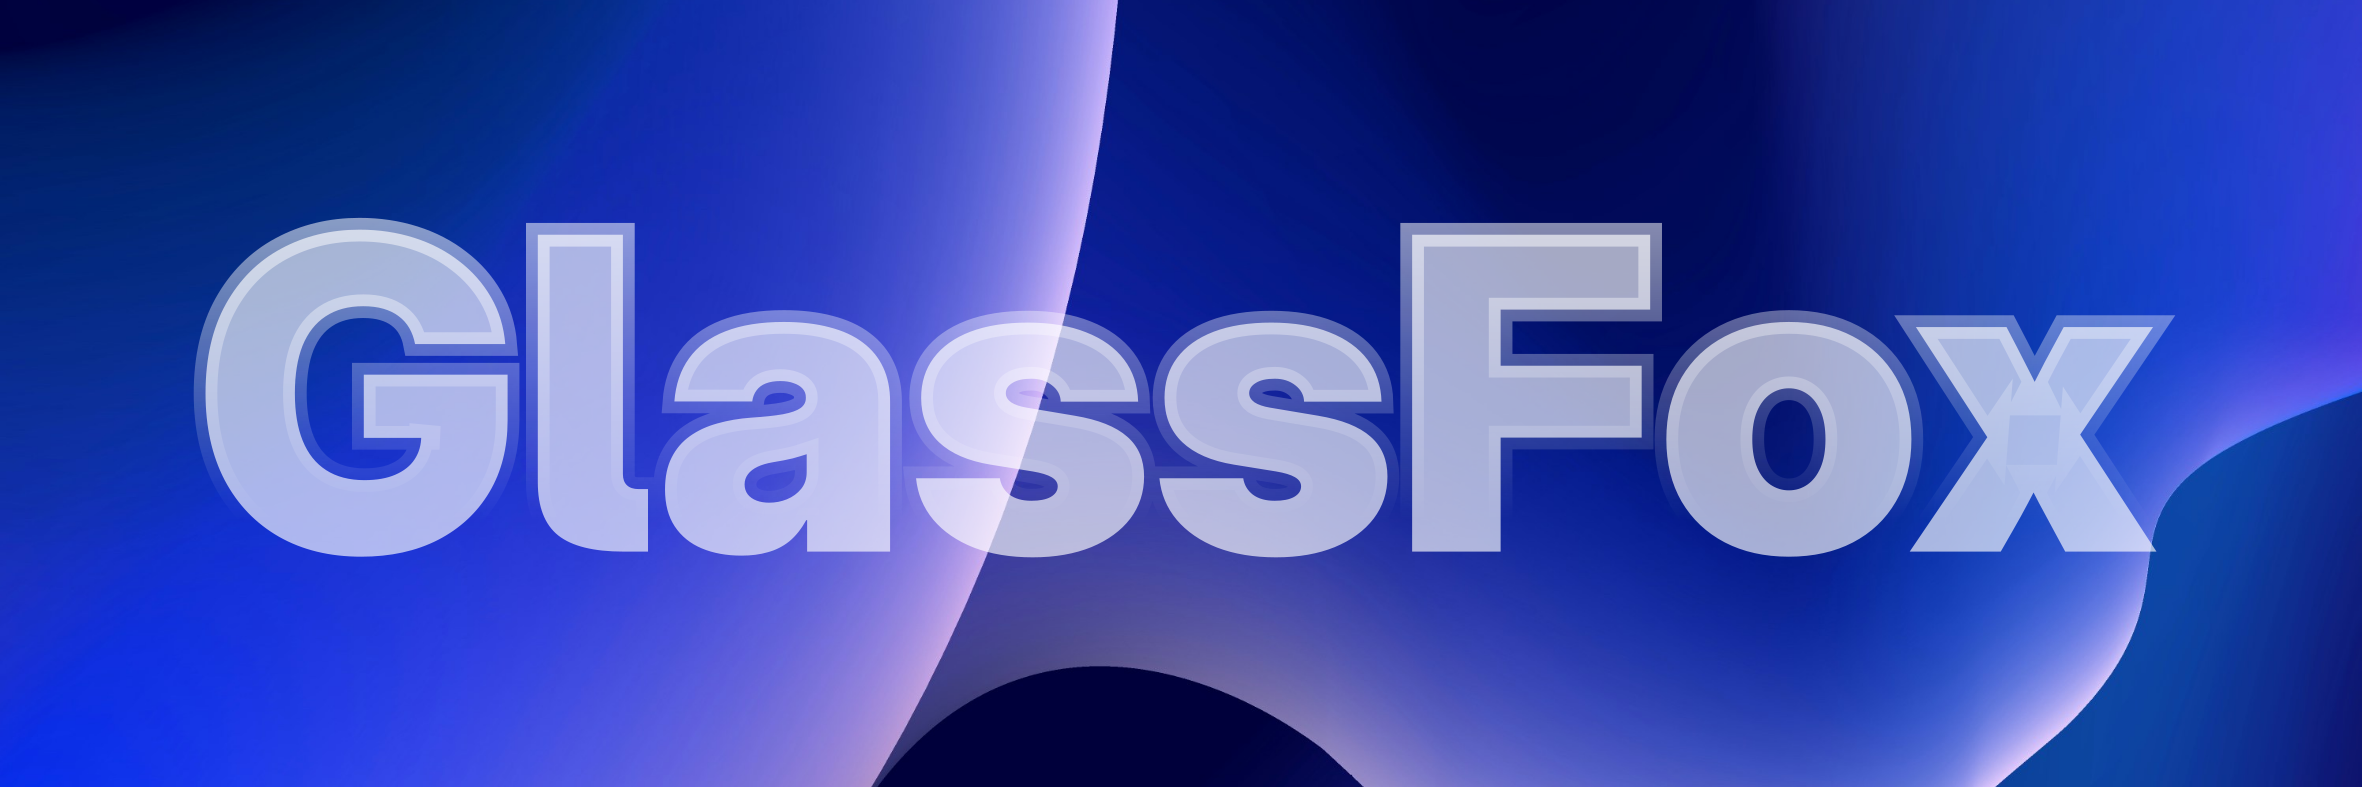
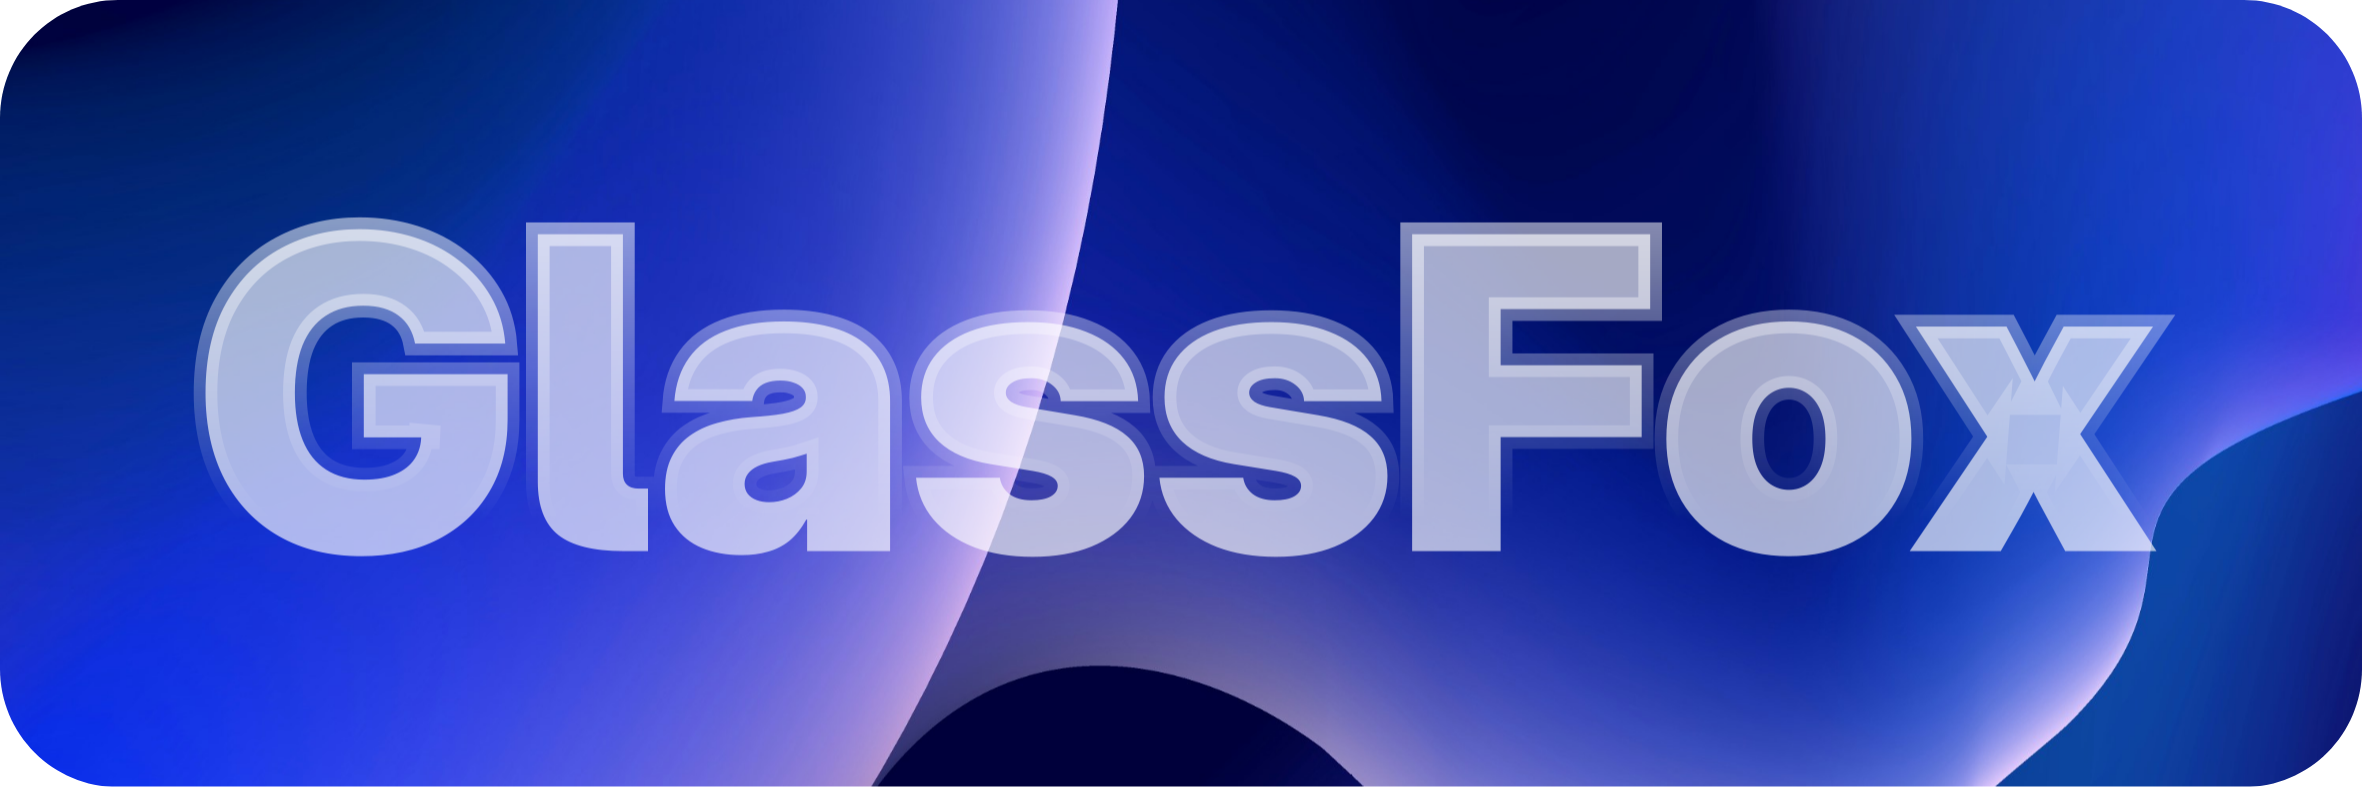
Rounded the image and change the urlbar animation just a bit

diff --git a/chrome/userChrome.css b/chrome/userChrome.css
@@ -90,6 +90,7 @@
     animation: appear 500ms cubic-bezier(0.25, 0.8, 0.25, 1);
     transform: translateY(5px);
 }
+
 @keyframes appear {
     0% {
         transform: translateY(-30px);
@@ -103,14 +104,13 @@
 #urlbar:not([open]) {
     animation: comeBack 150ms cubic-bezier(0.25, 0.8, 0.25, 1) !important;
 }
+
 @keyframes comeBack {
     0% {
-        transform: translateY(10px);
-        opacity: 0;
+        transform: translateY(5px);
     }
     100% {
         transform: translateY(0px);
-        opacity: 1;
     }
 }
 
